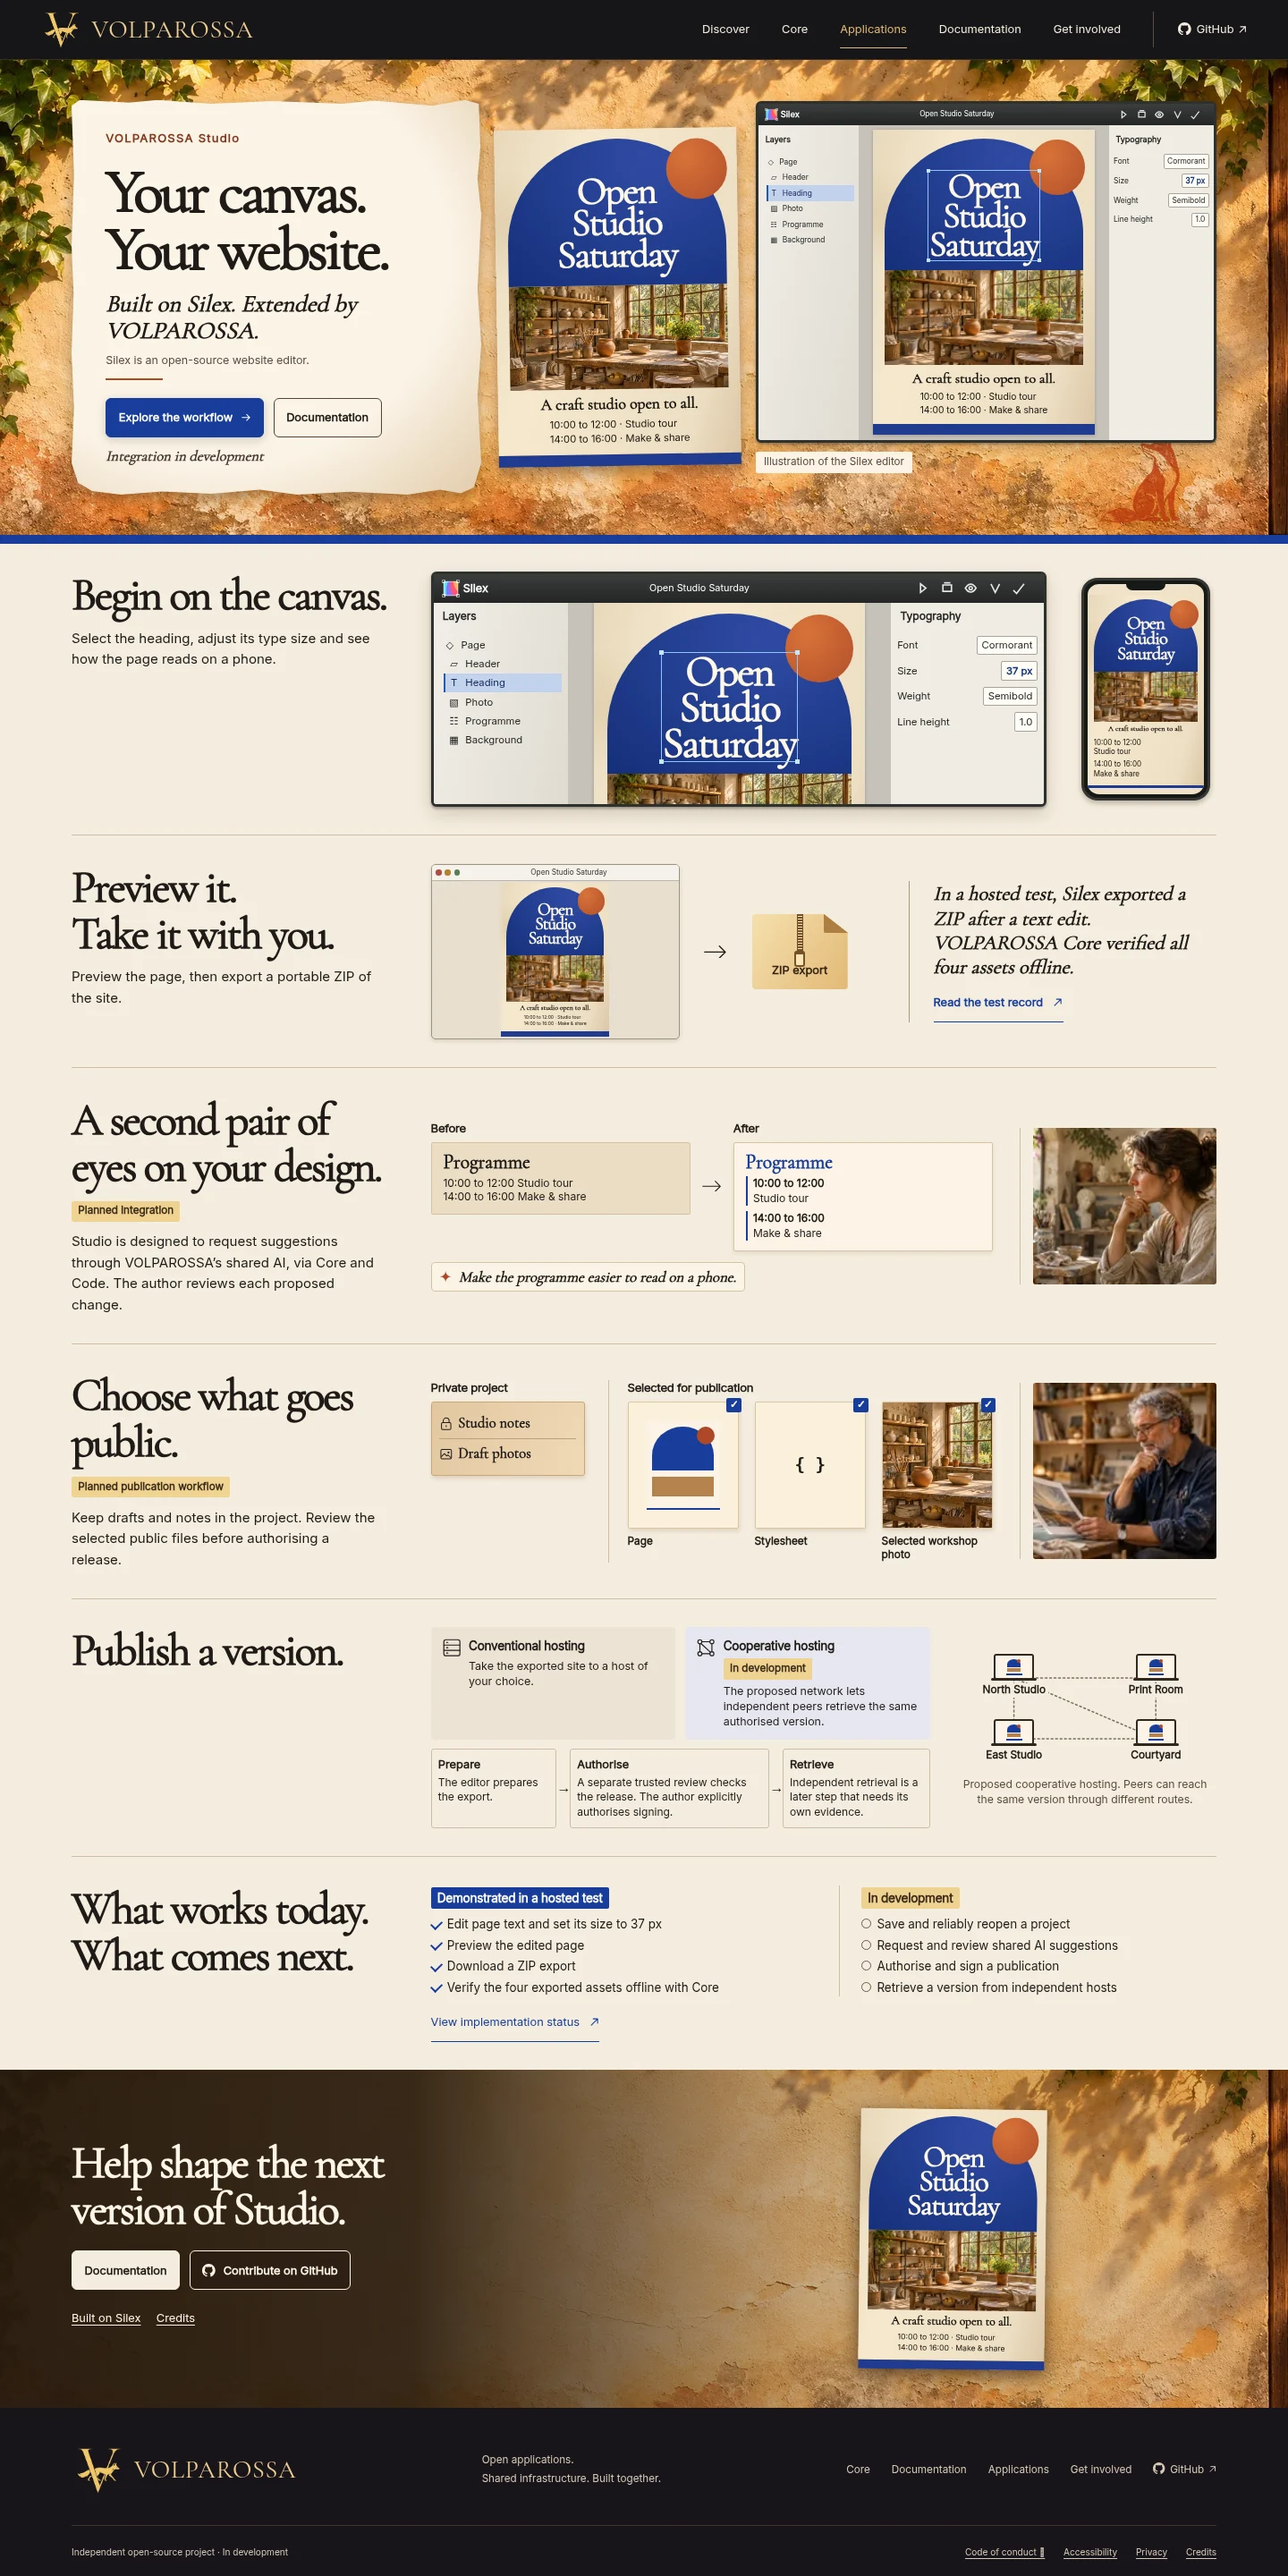
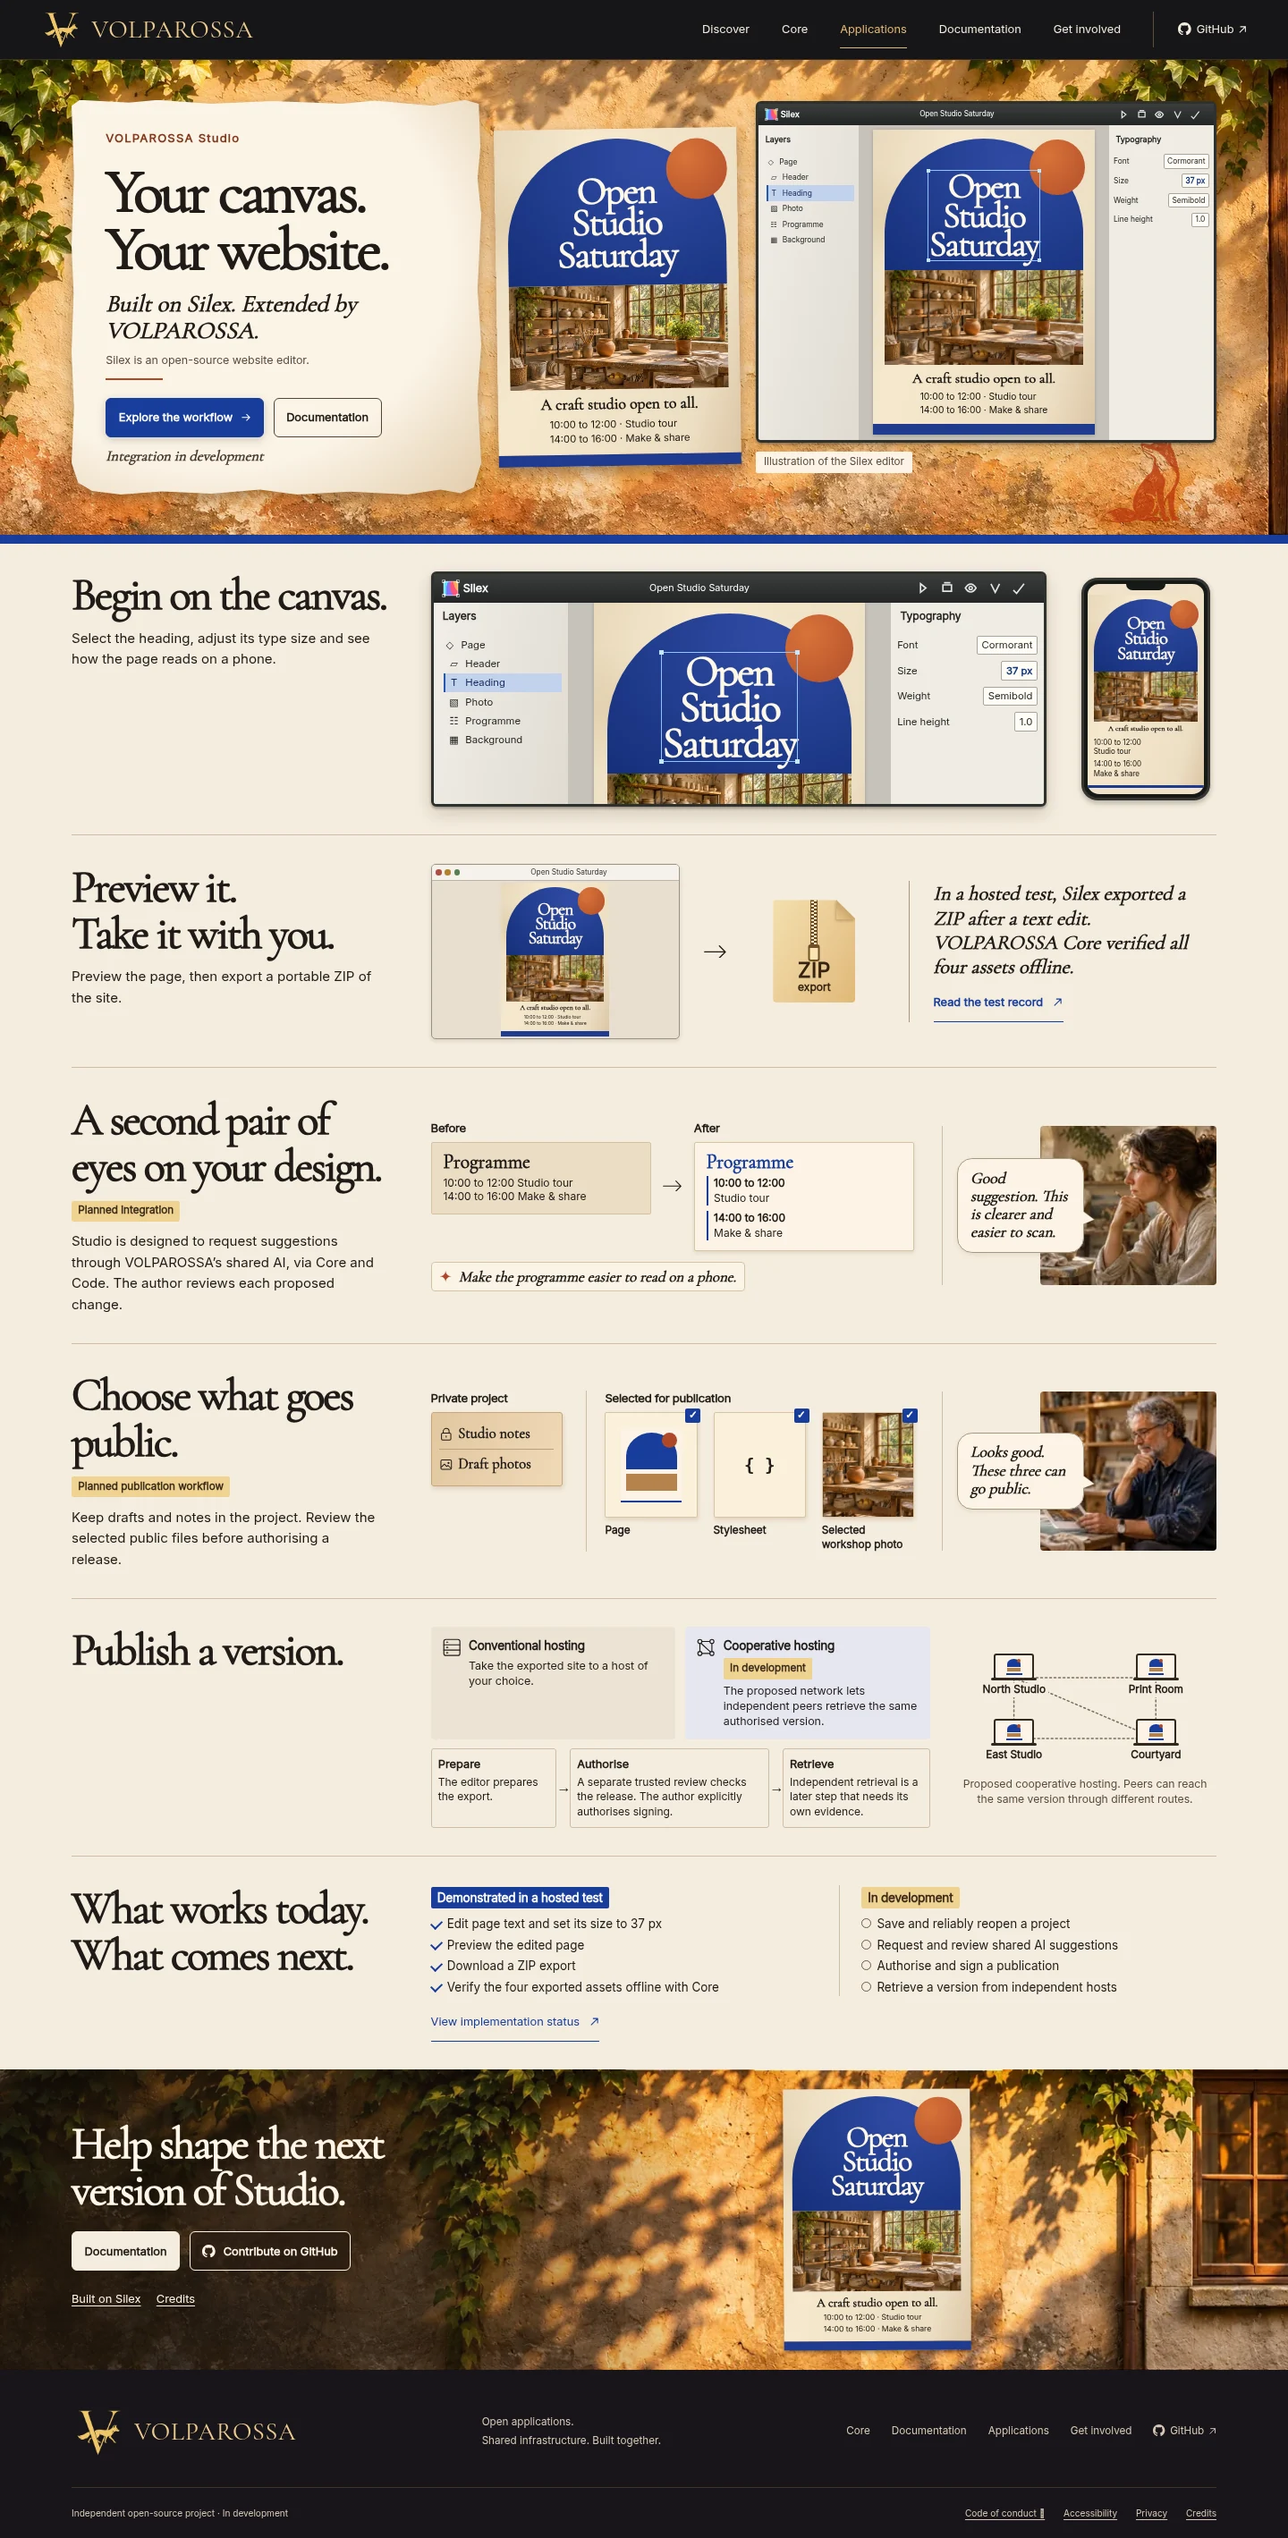
Match the Studio courtyard, portrait dialogue and ZIP export to the concept

diff --git a/website/src/studio.css b/website/src/studio.css
@@ -342,52 +342,64 @@
 .studio-zip {
   position: relative;
   display: grid;
-  align-content: start;
-  gap: .72rem;
+  grid-template-rows: minmax(1.8rem, 1fr) auto;
+  gap: .9rem;
   justify-items: center;
-  width: min(100%, 6.7rem);
-  padding: 0 .55rem .8rem;
-  background: linear-gradient(125deg, #f6dfad, #e1b976);
-  clip-path: polygon(0 0, 75% 0, 100% 25%, 100% 100%, 0 100%);
+  justify-self: center;
+  width: min(100%, 5.75rem);
+  aspect-ratio: 4 / 5;
+  padding: 0 .35rem .65rem;
+  background: linear-gradient(120deg, #f4dfad, #e7c58c 68%, #dfb977);
+  clip-path: polygon(0 0, 77% 0, 100% 18.4%, 100% 100%, 0 100%);
   color: #352413;
   border-radius: 4px;
-  font-size: .8rem;
-  font-weight: 700;
-  line-height: 1.25;
   text-align: center;
-  overflow-wrap: anywhere;
 }
 
 .studio-zip::before {
   content: "";
   position: absolute;
-  inset: 0 0 auto auto;
-  width: 25%;
-  height: 25%;
-  background: #ae7f42;
-  border-bottom-left-radius: 2px;
+  top: 0;
+  right: 0;
+  width: 23%;
+  aspect-ratio: 1;
+  background: linear-gradient(45deg, #e9c98e, #af854e);
+  box-shadow: -1px 2px 3px #6949144a;
+  border-end-start-radius: 2px;
 }
 
 .studio-zip-seam {
-  width: 7px;
-  height: 2.75rem;
-  background: repeating-linear-gradient(#76512a 0 2px, #f9e4b3 2px 3px);
-  border-inline: 1px solid #76512a;
   position: relative;
+  width: 8px;
+  min-height: 1.8rem;
+  border-inline: 1px solid #75552d;
+  background: repeating-linear-gradient(#654a2b 0 2px, #f9e5ba 2px 4px) left / 50% 100% no-repeat,
+              repeating-linear-gradient(#f9e5ba 0 2px, #654a2b 2px 4px) right / 50% 100% no-repeat;
 }
 
 .studio-zip-seam::after {
   content: "";
   position: absolute;
-  width: 8px;
-  height: 12px;
+  width: 9px;
+  height: 13px;
   left: 50%;
   top: 100%;
   translate: -50% -3px;
-  border: 2px solid #76512a;
+  border: 2px solid #70502a;
   border-top-width: 4px;
   border-radius: 3px;
   background: #f9e4b3;
+}
+
+.studio-zip-label {
+  font: 600 .75rem/1.14 var(--sans);
+  overflow-wrap: anywhere;
+}
+
+.studio-zip-label strong {
+  display: block;
+  font: 700 1.45rem/1.05 var(--sans);
+  letter-spacing: .015em;
 }
 
 .studio-export-evidence {
@@ -408,7 +420,7 @@
 
 .studio-band-display {
   display: grid;
-  grid-template-columns: minmax(0, 1fr) minmax(0, 25%);
+  grid-template-columns: minmax(0, 1fr) minmax(0, 35%);
   align-items: center;
   gap: clamp(.8rem, 2.2vw, 1.9rem);
 }
@@ -504,24 +516,59 @@
 
 .studio-maker-photo {
   min-width: 0;
-  padding-inline-start: .85rem;
+  margin: 0;
+  display: grid;
+  grid-template-columns: 32% 17% 51%;
+  align-items: center;
+  padding-inline-start: clamp(.7rem, 1.15vw, 1.2rem);
   border-inline-start: 1px solid var(--studio-line);
 }
 
+.studio-maker-photo picture {
+  grid-area: 1 / 2 / 2 / 4;
+}
+
 .studio-maker-photo img {
+  display: block;
   width: 100%;
-  aspect-ratio: 1.04;
+  aspect-ratio: 1.11;
   object-fit: cover;
-  border-radius: 3px;
+  border-radius: 4px;
 }
 
-.studio-ai-photo img {
-  aspect-ratio: 1.17;
-  object-position: 64% center;
+.studio-ai-photo img { object-position: 74% center; }
+.studio-review-photo img { object-position: 80% center; }
+
+.studio-speech {
+  grid-area: 1 / 1 / 2 / 3;
+  z-index: 1;
+  position: relative;
+  width: fit-content;
+  max-width: 100%;
+  padding: .66em .79em;
+  border: 1px solid #a99b83;
+  border-radius: .95em;
+  background: #fcf4e6;
+  box-shadow: 0 2px 5px #4e39151a;
+  color: var(--studio-ink);
+  font: italic 700 clamp(1rem, 1.23vw, 1.16rem)/1.14 var(--serif);
+  overflow-wrap: anywhere;
 }
 
-.studio-review-photo img {
-  object-position: 73% center;
+.studio-speech::before, .studio-speech::after {
+  content: "";
+  position: absolute;
+  top: 56%;
+  left: 100%;
+  width: .72em;
+  height: .82em;
+  background: #a99b83;
+  clip-path: polygon(0 0, 100% 65%, 0 100%);
+}
+
+.studio-speech::after {
+  left: calc(100% - 1px);
+  background: #fcf4e6;
 }
 
 .studio-selection-illustration {
@@ -926,23 +973,26 @@
   position: absolute;
   inset: 0;
   z-index: -1;
-  background: linear-gradient(90deg, #25190df5, #25190de8 32%, #25190d44 62%, #25190d16);
+  background: linear-gradient(90deg, #160f0ab8, #1d140e85 32%, transparent 55%);
 }
 
 .studio-closing .studio-wall-scene img {
-  object-position: 70% 59%;
+  object-position: right center;
 }
 
 .studio-closing-grid {
+  --max: clamp(1280px, calc(100vw - 10rem), 2000px);
   display: grid;
-  grid-template-columns: minmax(0, 1.06fr) minmax(0, 1fr);
+  grid-template-columns: minmax(0, 1fr) minmax(0, 23%) minmax(0, 13%);
   align-items: center;
   gap: clamp(1rem, 5vw, 4.1rem);
-  padding-block: clamp(1.75rem, 3vw, 2.8rem);
+  min-height: min(21.8vw, 32rem);
+  padding-block: clamp(.85rem, 1.5vw, 1.5rem);
 }
 
 .studio-closing h2 {
   max-width: 15ch;
+  font-size: clamp(2.2rem, 3.5vw, 4.75rem);
 }
 
 .studio-page .studio-closing .button.primary {
@@ -988,10 +1038,10 @@
 }
 
 .studio-closing-poster {
-  width: min(100%, 13rem);
+  width: min(100%, clamp(13rem, 14.5vw, 20.5rem));
   justify-self: center;
-  rotate: .7deg;
-  box-shadow: 0 6px 19px #2a1a10a6;
+  rotate: -.3deg;
+  box-shadow: 1px 2px 4px #2a1a1080;
 }
 
 @media (min-width: 76rem) {
@@ -1135,7 +1185,10 @@
   }
 
   .studio-maker-photo {
-    display: none;
+    width: min(100%, 21rem);
+    justify-self: center;
+    padding-inline-start: 0;
+    border-inline-start: 0;
   }
 
   .studio-publish-display {
@@ -1147,11 +1200,15 @@
   }
 
   .studio-closing::after {
-    background: linear-gradient(180deg, #25190df0, #25190dc9 50%, #25190d44);
+    background: linear-gradient(165deg, #20170dce 0%, #241a1299 33%, transparent 65%);
+  }
+
+  .studio-closing-grid {
+    padding-block: 1.6rem 1.1rem;
   }
 
   .studio-closing-poster {
-    width: min(68%, 12rem);
+    width: min(54%, 11.25rem);
   }
 }
 

diff --git a/website/src/index.html b/website/src/index.html
@@ -46,7 +46,7 @@
         <svg class="studio-arrow" viewBox="0 0 32 18" aria-hidden="true"><path d="M1 9h28m-8-8 8 8-8 8"/></svg>
         <div class="studio-zip">
           <div class="studio-zip-seam" aria-hidden="true"></div>
-          <span>ZIP export</span>
+          <span class="studio-zip-label"><strong>ZIP</strong> export</span>
         </div>
       </div>
       <div class="studio-export-evidence">
@@ -91,7 +91,10 @@
         </div>
         <figcaption class="studio-prompt"><svg viewBox="0 0 20 20" aria-hidden="true"><path d="M10 1c0 5-4 9-9 9 5 0 9 4 9 9 0-5 4-9 9-9-5 0-9-4-9-9Z"/></svg><span>Make the programme easier to read on a phone.</span></figcaption>
       </figure>
-      <div class="studio-maker-photo studio-ai-photo" aria-hidden="true">{{maker_picture}}</div>
+      <figure class="studio-maker-photo studio-ai-photo">
+        {{maker_picture}}
+        <figcaption class="studio-speech">Good suggestion. This is clearer and easier to scan.</figcaption>
+      </figure>
     </div>
   </div>
 </section>
@@ -130,7 +133,10 @@
           </ul>
         </div>
       </div>
-      <div class="studio-maker-photo studio-review-photo" aria-hidden="true">{{reviewer_picture}}</div>
+      <figure class="studio-maker-photo studio-review-photo">
+        {{reviewer_picture}}
+        <figcaption class="studio-speech">Looks good. These three can go public.</figcaption>
+      </figure>
     </div>
   </div>
 </section>

diff --git a/website/scripts/objects.py b/website/scripts/objects.py
@@ -2,7 +2,7 @@
 from html import escape
 
 
-def picture(name, inventory, sizes, *, alt='', eager=False, mobile=False):
+def picture(name, inventory, sizes, *, alt='', eager=False, mobile=None):
     def sources(key):
         return ', '.join(f'assets/studio/{key}-{w}.webp {w}w' for w, _ in inventory[key]['frames'])
     info = inventory[name]
@@ -10,8 +10,10 @@ def picture(name, inventory, sizes, *, alt='', eager=False, mobile=False):
     load = 'loading="eager"' if eager else 'loading="lazy" decoding="async"'
     markup = ['<picture>']
     if mobile:
-        markup += [f'<source media="(max-width:900px)" type="image/webp" srcset="{sources("wall-mobile")}" sizes="100vw">',
-                   '<source media="(max-width:900px)" srcset="assets/studio/wall-mobile.jpg">']
+        key, breakpoint = mobile
+        media = f'(max-width:{breakpoint}px)'
+        markup += [f'<source media="{media}" type="image/webp" srcset="{sources(key)}" sizes="100vw">',
+                   f'<source media="{media}" srcset="assets/studio/{key}.{inventory[key]["ext"]}">']
     markup += [f'<source type="image/webp" srcset="{sources(name)}" sizes="{sizes}">',
                f'<img src="assets/studio/{name}.{info["ext"]}" width="{w}" height="{h}" alt="{escape(alt, quote=True)}" {load}></picture>']
     return ''.join(markup)

diff --git a/website/scripts/build_site.py b/website/scripts/build_site.py
@@ -53,8 +53,8 @@ def components():
     def workshop(eager=False):
         return picture('workshop', inventory, '(max-width:600px) 230px, 300px', alt='Daylight on an empty ceramics workbench.', eager=eager)
     hero_page, example = poster(workshop(True)), poster(workshop())
-    return dict(wall_picture=picture('wall', inventory, '100vw', mobile=True, eager=True),
-                closing_picture=picture('wall', inventory, '100vw', mobile=True),
+    return dict(wall_picture=picture('wall', inventory, '100vw', mobile=('wall-mobile', 900), eager=True),
+                closing_picture=picture('closing', inventory, '100vw', mobile=('closing-portrait', 640)),
                 fox_picture=picture('fox', inventory, '115px', eager=True),
                 maker_picture=picture('maker', inventory, '230px'),
                 reviewer_picture=picture('reviewer', inventory, '230px'),

diff --git a/website/scripts/export_art.py b/website/scripts/export_art.py
@@ -8,6 +8,8 @@ OUT = ROOT / 'assets/studio'
 SPECS = {
     'wall': [768, 1440, 2060],
     'wall-mobile': [390, 740],
+    'closing': [800, 1440, 2170],
+    'closing-portrait': [390, 780],
     'workshop': [240, 480, 900],
     'maker': [240, 480], 'reviewer': [240, 480],
     'fox': [100, 210],
@@ -17,7 +19,7 @@ SPECS = {
 def export():
     inventory = {}
     for name, widths in SPECS.items():
-        master = ROOT / 'masters' / (name.split('-')[0] + '.webp')
+        master = ROOT / 'masters' / (('wall' if name == 'wall-mobile' else name) + '.webp')
         with Image.open(master) as source:
             if name == 'wall-mobile':
                 source = ImageOps.fit(source, (563, 763), centering=(.17, .5))

diff --git a/website/masters/README.md b/website/masters/README.md
@@ -1,10 +1,11 @@
 # Studio artwork
 
-These five local art masters were generated for VOLPAROSSA Studio with OpenAI ImageGen, using the project owner's supplied composition as the visual reference. The supplied concept is used only for design review. New pictures are used on the website. They portray a fictional workshop and illustrative people.
+These local art masters were generated for VOLPAROSSA Studio with OpenAI ImageGen, using the project owner's supplied composition as the visual reference. The supplied concept is used only for design review. New pictures are used on the website. They portray a fictional workshop and illustrative people.
 
 | Master | Art direction and use |
 | --- | --- |
-| wall.webp | Straight-on Mediterranean courtyard plaster with warm dappled light and overhanging leaves. Used for both ends of the page. Mobile uses a vertical crop of this master. |
+| wall.webp | Straight-on Mediterranean courtyard plaster with warm dappled light and overhanging leaves. Used in the opening section. Mobile uses a vertical crop of this master. |
+| closing.webp, closing-portrait.webp | The courtyard at the end of the page. Two compositions frame the trailing ivy, low afternoon light, downpipe and mullioned workshop window around the live poster. |
 | workshop.webp | Empty ceramics workbench with shelves, pots and daylight through a window. Every edition of the example poster and the selected public photo use this image. |
 | maker.webp | Artist reviewing work in a daylight studio. Used alongside the proposed programme change. |
 | reviewer.webp | Designer with glasses studying a printed proof. Used alongside the publication selection. |
